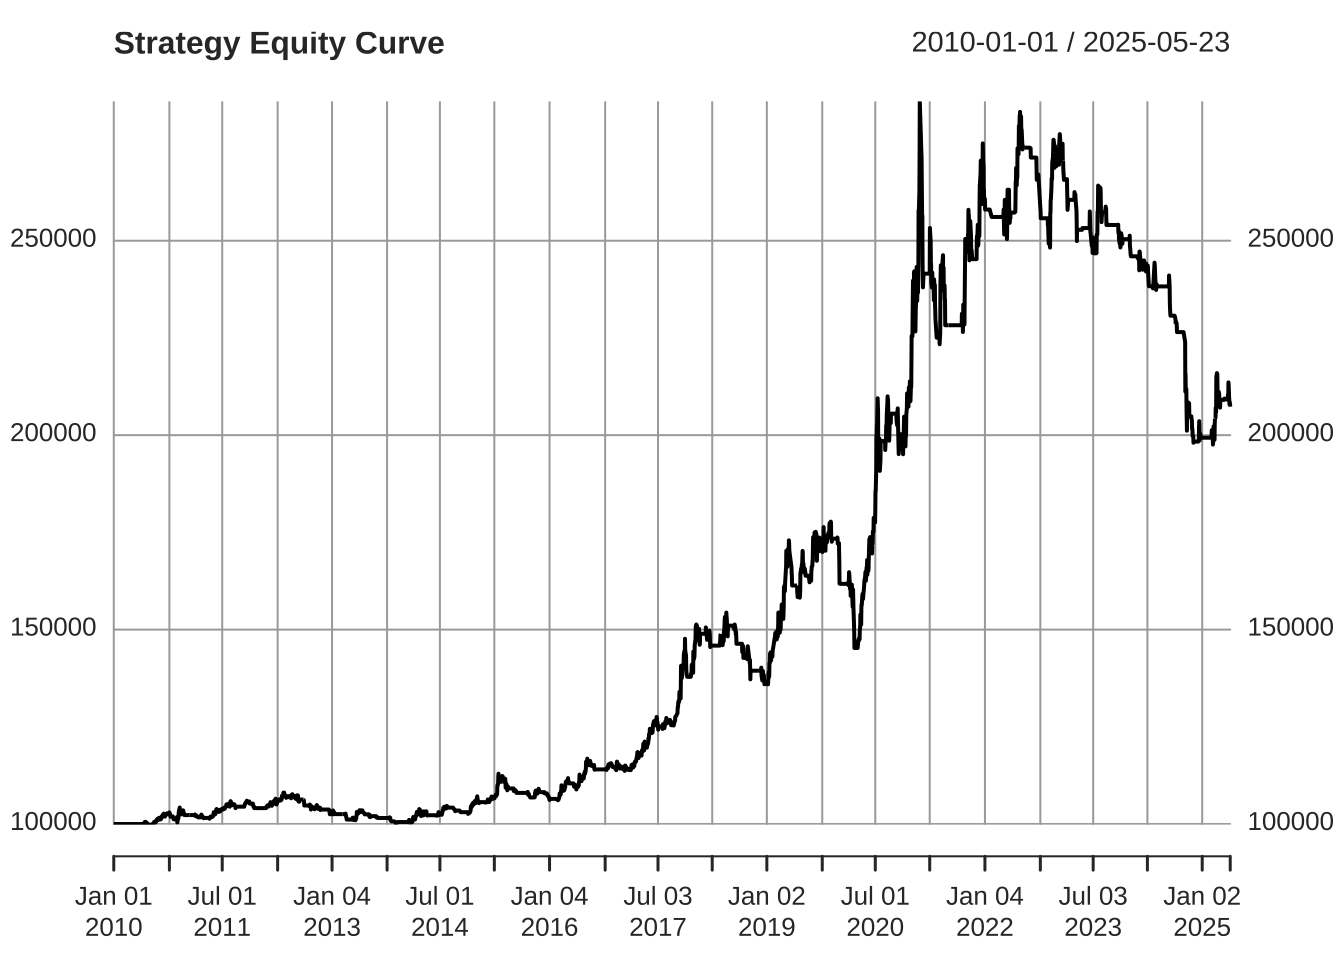
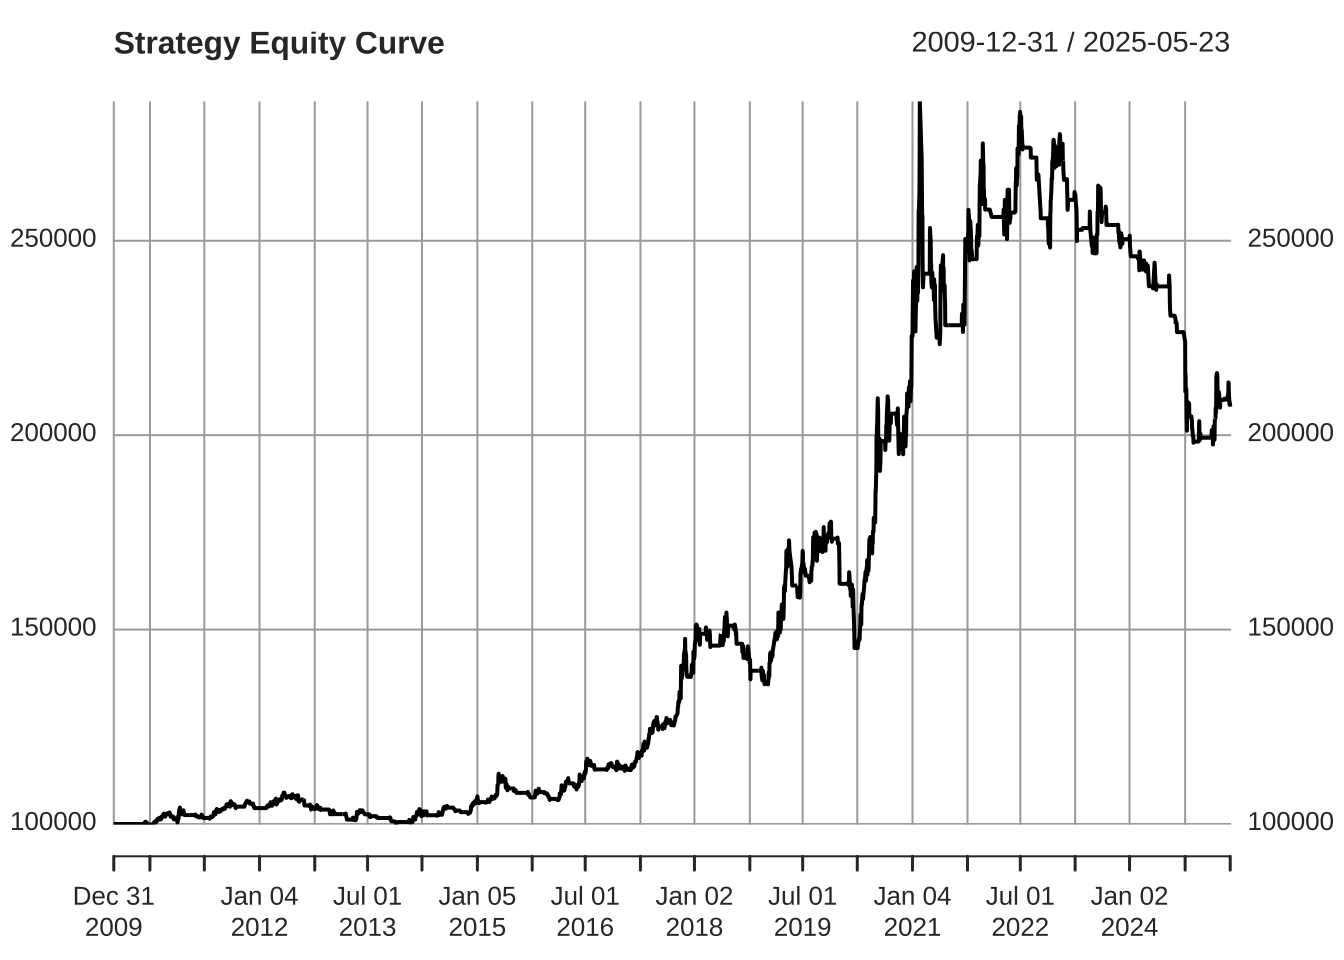
refine post

diff --git a/content/post/2025-05-25-sma/index.html b/content/post/2025-05-25-sma/index.html
@@ -42,12 +42,13 @@ rm(list=ls(.strategy), envir=.strategy)</code></pre>
 </div>
 <div id="策略开发" class="section level1">
 <h1>策略开发</h1>
-<p>下面进入正式开发。</p>
+<p>下面进入正式开发流程。</p>
 <div id="初始化设置" class="section level2">
 <h2>初始化设置</h2>
 <pre class="r"><code># 参数设置
-initDate &lt;- &quot;2010-01-01&quot;
-endDate &lt;- &quot;2025-05-26&quot;
+initDate &lt;- &quot;2009-12-31&quot;
+fromDate &lt;- &quot;2010-01-01&quot;
+endDate &lt;- Sys.Date()
 symbol &lt;- &quot;600519.SS&quot;
 initEq &lt;- 100000
 fastMA &lt;- 5
@@ -57,7 +58,7 @@ slowMA &lt;- 20</code></pre>
 <h2>获取数据</h2>
 <p>使用quantmod获取贵州茅台数据</p>
 <pre class="r"><code># 获取数据
-getSymbols(symbol, from=initDate, to=endDate, src=&quot;yahoo&quot;)</code></pre>
+getSymbols(symbol, from=fromDate, to=endDate, src=&quot;yahoo&quot;)</code></pre>
 <pre><code>## [1] &quot;600519.SS&quot;</code></pre>
 <pre class="r"><code>maotai &lt;- `600519.SS`
 colnames(maotai) &lt;- c(&quot;Open&quot;,&quot;High&quot;,&quot;Low&quot;,&quot;Close&quot;,&quot;Volume&quot;,&quot;Adjusted&quot;)</code></pre>
@@ -395,7 +396,7 @@ add.signal(
 trades &lt;- getTxns(Portfolio = portfolio.st, Symbol = symbol)
 print(trades)</code></pre>
 <pre><code>##            Txn.Qty  Txn.Price Txn.Fees   Txn.Value Txn.Avg.Cost
-## 2010-01-01       0    0.00000        0       0.000      0.00000
+## 2009-12-31       0    0.00000        0       0.000      0.00000
 ## 2010-05-25     100   98.61007        0    9861.007     98.61007
 ## 2010-06-01    -100   99.64688        0   -9964.688     99.64688
 ## 2010-06-03     100  101.45004        0   10145.004    101.45004
@@ -417,7 +418,7 @@ print(trades)</code></pre>
 ## 2025-04-25    -100 1550.00000        0 -155000.000   1550.00000
 ## 2025-05-09     100 1591.18005        0  159118.005   1591.18005
 ##            Net.Txn.Realized.PL
-## 2010-01-01              0.0000
+## 2009-12-31              0.0000
 ## 2010-05-25              0.0000
 ## 2010-06-01            103.6812
 ## 2010-06-03              0.0000
